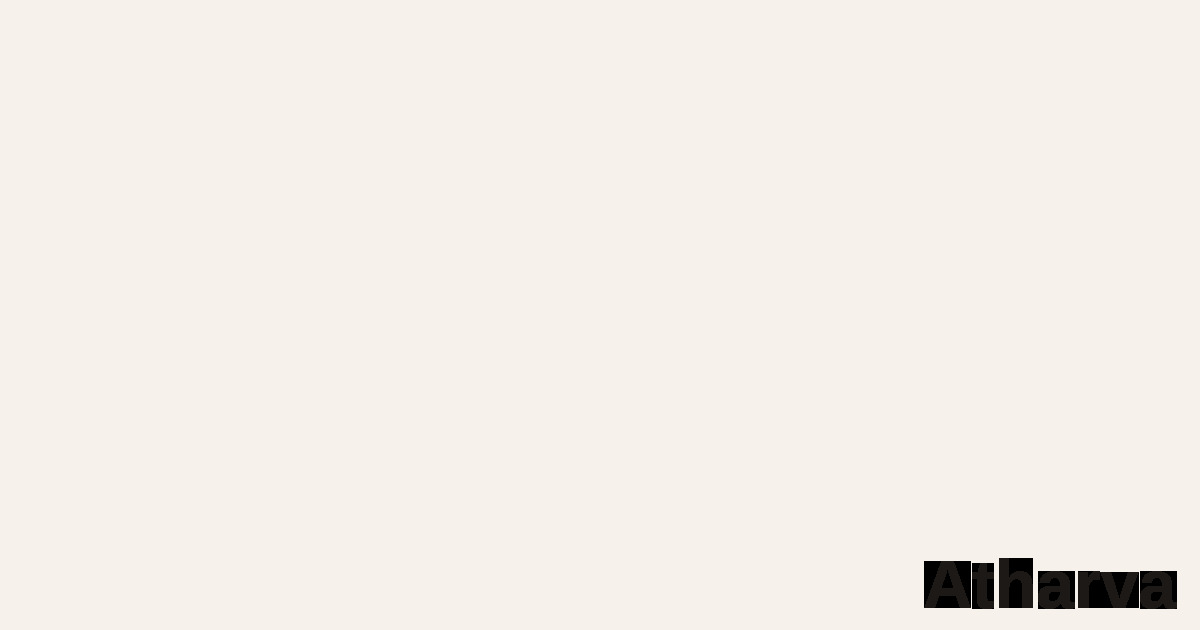
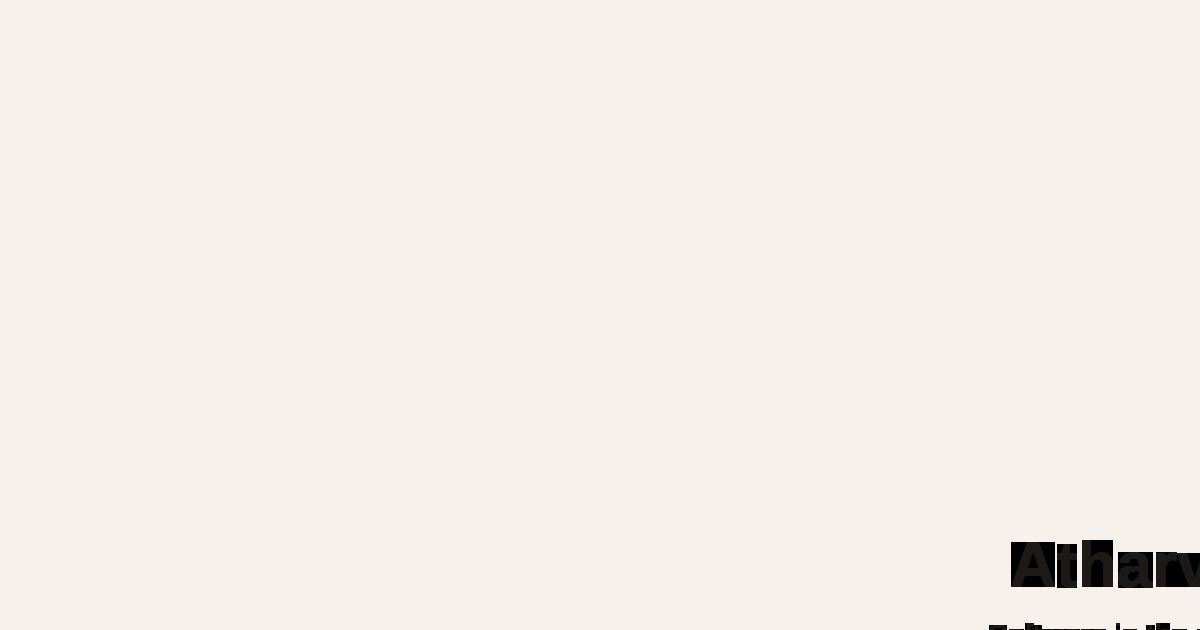
Refresh share preview with profile photo and deeper tagline.
Use the same portrait on og.jpg and update social description copy to match the site's musing tone.

Changed region(s): [[0.7708, 0.8444, 1.0, 1.0]]

diff --git a/src/consts.ts b/src/consts.ts
@@ -1,7 +1,7 @@
 export const SITE = {
   title: 'Atharva',
   description:
-    'Engineer building software and ML systems, deep in open source, working toward inclusive AI. Musings on philosophy, computing, and mathematics.',
+    'Curious engineer in open source. Musings on software, philosophy, and the work of understanding.',
   url: 'https://atharva.dev',
   author: 'Atharva',
   twitter: '@attharrva15',
@@ -9,7 +9,8 @@ export const SITE = {
   medium: 'https://medium.com/@atharvakanherkar25',
   xArticles: 'https://x.com/attharrva15/articles',
   ogImage: '/og.jpg',
-  ogImageAlt: 'Atharva — engineer building software and ML systems in open source.',
+  ogImageAlt:
+    'Atharva — profile photo. Software in the open. Philosophy in the long run.',
   ogImageWidth: 1200,
   ogImageHeight: 630,
 } as const;